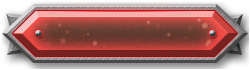
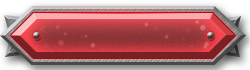
finished basic menu

diff --git a/src/uk/ac/brighton/uni/ab607/mmorpg/client/fx/GameWindow.java b/src/uk/ac/brighton/uni/ab607/mmorpg/client/fx/GameWindow.java
@@ -6,6 +6,9 @@ import java.nio.file.Files;
 import java.nio.file.Paths;
 import java.util.ArrayList;
 
+
+
+
 import uk.ac.brighton.uni.ab607.mmorpg.client.ui.InventoryGUI;
 import uk.ac.brighton.uni.ab607.mmorpg.client.ui.StatsGUI;
 import uk.ac.brighton.uni.ab607.mmorpg.client.ui.animation.Animation;
@@ -18,6 +21,8 @@ import uk.ac.brighton.uni.ab607.mmorpg.common.request.QueryRequest;
 import uk.ac.brighton.uni.ab607.mmorpg.common.request.ServerResponse;
 import uk.ac.brighton.uni.ab607.mmorpg.common.request.ActionRequest.Action;
 import uk.ac.brighton.uni.ab607.mmorpg.common.request.QueryRequest.Query;
+import javafx.animation.FadeTransition;
+import javafx.animation.ScaleTransition;
 import javafx.application.Platform;
 import javafx.geometry.Pos;
 import javafx.scene.effect.Light;
@@ -33,11 +38,13 @@ import javafx.scene.image.ImageView;
 import javafx.scene.layout.Pane;
 import javafx.scene.layout.StackPane;
 import javafx.scene.layout.VBox;
+import javafx.scene.paint.Color;
 import javafx.scene.shape.Rectangle;
 import javafx.scene.text.Font;
 import javafx.scene.text.Text;
 import javafx.stage.Stage;
 import javafx.stage.StageStyle;
+import javafx.util.Duration;
 
 import com.almasb.common.net.DataPacket;
 import com.almasb.common.net.ServerPacketParser;
@@ -58,6 +65,8 @@ public class GameWindow extends FXWindow {
     private Camera camera = new ParallelCamera();
 
     private Pane uiRoot;
+
+    private Stage menu;
 
     public GameWindow(String ip, String playerName) {
         name = playerName;
@@ -101,12 +110,12 @@ public class GameWindow extends FXWindow {
 
 
         VBox vbox = new VBox(10);
-        Button btnOptions = new Button("Options");
+        Button btnOptions2 = new Button("Options");
         if (font != null) {
-            btnOptions.setFont(font);
+            btnOptions2.setFont(font);
             Out.d("font", "added");
         }
-        vbox.getChildren().add(btnOptions);
+        vbox.getChildren().add(btnOptions2);
         uiRoot.getChildren().addAll(vbox);
 
 
@@ -114,85 +123,83 @@ public class GameWindow extends FXWindow {
 
         // MENU
 
-        Stage menu = new Stage(StageStyle.UNDECORATED);
-        menu.setWidth(300);
-        menu.setHeight(400);
+        menu = new Stage(StageStyle.TRANSPARENT);
+        //menu.setHeight(375);
         menu.setAlwaysOnTop(true);
 
-        VBox menuBox = new VBox(15);
-        menuBox.setAlignment(Pos.CENTER);
-        Scene menuScene = new Scene(menuBox);
-
-        Button menuBtnBack = new Button("Back to game");
-
-        ImageView img = null;
-        ImageView img2 = null;
-        try {
-            img = new ImageView(ResourceManager.loadFXImage("ui_menu_button.png"));
-            img2 = new ImageView(ResourceManager.loadFXImage("ui_menu_button.png"));
-        }
-        catch (IOException e) {
-            // TODO Auto-generated catch block
-            e.printStackTrace();
-        }
-
-
-        //if (img != null)
-        menuBtnBack.setGraphic(img2);
-
-        Rectangle clip = new Rectangle();
-        clip.setX(5);
-        clip.setY(5);
-        clip.widthProperty().bind(menuBtnBack.widthProperty().subtract(10));
-        clip.heightProperty().bind(menuBtnBack.heightProperty().subtract(10));
-        clip.setArcWidth(30);
-        clip.setArcHeight(30);
-
-        img.fitWidthProperty().bind(menuBtnBack.widthProperty());
-        img.fitHeightProperty().bind(menuBtnBack.heightProperty());
-
-
-        //img2.fitWidthProperty().bind(menuBtnBack.widthProperty());
-        //img2.fitHeightProperty().bind(menuBtnBack.heightProperty());
-
-
-        menuBtnBack.setClip(img);
-        //menuBtnBack.setAlignment(Pos.);
-
-
-        if (font != null) {
-            menuBtnBack.setFont(font);
-            Out.d("font", "added");
-        }
-
-        Button menuBtnOptions = new Button("Options");
-        if (font != null) {
-            menuBtnOptions.setFont(font);
-            Out.d("font", "added");
-        }
-
-        Button menuBtnExit = new Button("Exit");
-        if (font != null) {
-            menuBtnExit.setFont(font);
-            Out.d("font", "added");
-        }
-
-        menuBox.getChildren().addAll(new StyledButton(), menuBtnOptions, menuBtnExit);
+        Scene menuScene = new Scene(new Menu(), 450, 375, Color.TRANSPARENT);
 
         menu.setScene(menuScene);
         menu.show();
     }
 
-    class StyledButton extends Parent {
+    private class Menu extends Parent {
+
+        private double dx, dy;
+
+        public Menu() {
+            VBox menuBox = new VBox(15);
+            menuBox.setAlignment(Pos.CENTER);
+
+            StyledButton btnResume = new StyledButton("Resume");
+            btnResume.setOnMouseClicked(event -> {
+                FadeTransition ft = new FadeTransition(Duration.seconds(1.5), this);
+                ft.setFromValue(1);
+                ft.setToValue(0);
+                ft.play();
+
+                ScaleTransition st = new ScaleTransition(Duration.seconds(1), this);
+                st.setFromY(1);
+                st.setToY(0);
+                st.play();
+            });
+            StyledButton btnOptions = new StyledButton("Options");
+            StyledButton btnExit = new StyledButton("Exit");
+            btnExit.setOnMouseClicked(event -> {
+                System.exit(0);
+            });
+
+            StackPane stack = new StackPane();
+
+            try {
+                ImageView bg = new ImageView(ResourceManager.loadFXImage("ui_menu_bg3.png"));
+
+                //bg.setFitWidth(300);
+                //bg.setFitHeight(400);
+                stack.getChildren().add(bg);
+            }
+            catch (IOException e) {
+                e.printStackTrace();
+            }
+
+            menuBox.getChildren().addAll(btnResume, btnOptions, btnExit);
+            stack.getChildren().add(menuBox);
+
+            getChildren().addAll(stack);
+
+            this.setOnMousePressed(event -> {
+                dx = event.getSceneX();
+                dy = event.getSceneY();
+            });
+
+            this.setOnMouseDragged(event -> {
+                menu.setX(event.getScreenX() - dx);
+                menu.setY(event.getScreenY() - dy);
+            });
+        }
+    }
+
+    private class StyledButton extends Parent {
 
         private ImageView imgView;
 
-        private Image entered, exited;
+        private Image entered, exited, pressed;
 
-        public StyledButton() {
+        public StyledButton(String name) {
             try {
                 entered = ResourceManager.loadFXImage("ui_menu_button2.png");
                 exited = ResourceManager.loadFXImage("ui_menu_button.png");
+                pressed = ResourceManager.loadFXImage("ui_menu_button3.png");
             }
             catch (IOException e) {
                 e.printStackTrace();
@@ -211,14 +218,20 @@ public class GameWindow extends FXWindow {
 
             StackPane stack = new StackPane();
             stack.setAlignment(Pos.CENTER);
-            Text text = new Text("Resume");
+            Text text = new Text(name);
+            text.setFill(Color.WHITESMOKE);
             text.setFont(font);
             stack.getChildren().addAll(imgView, text);
 
             getChildren().add(stack);
 
-            this.setOnMouseClicked(event -> {
-                Out.d("mouse", "clicked");
+
+            this.setOnMousePressed(event -> {
+                imgView.setImage(pressed);
+            });
+
+            this.setOnMouseReleased(event -> {
+                imgView.setImage(entered);
             });
 
             this.setOnMouseEntered(event -> {
